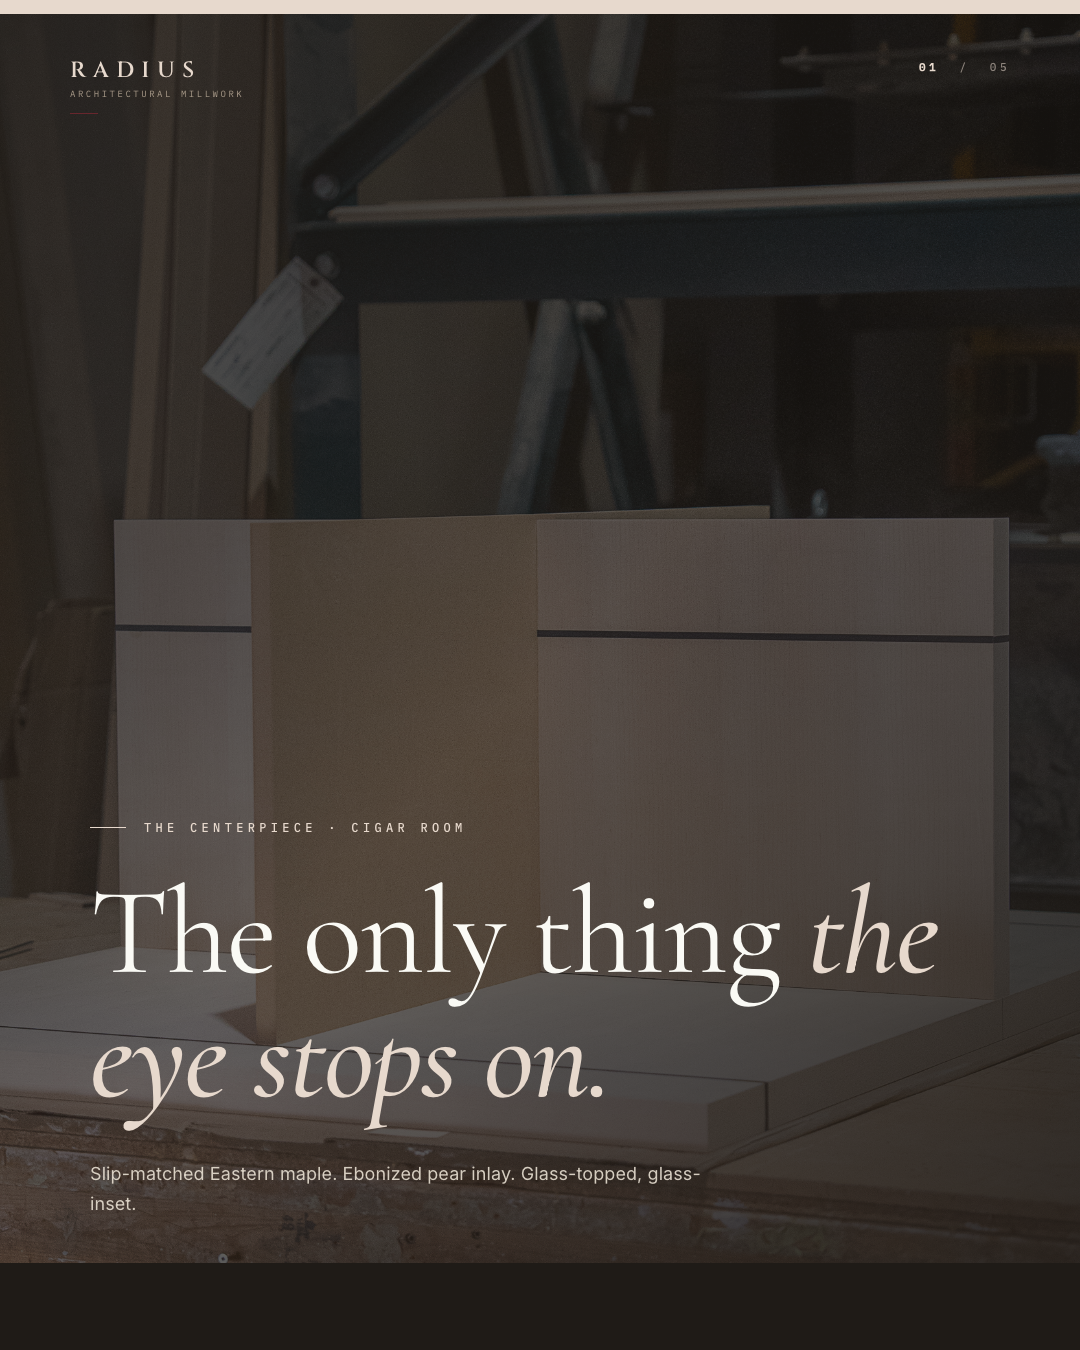
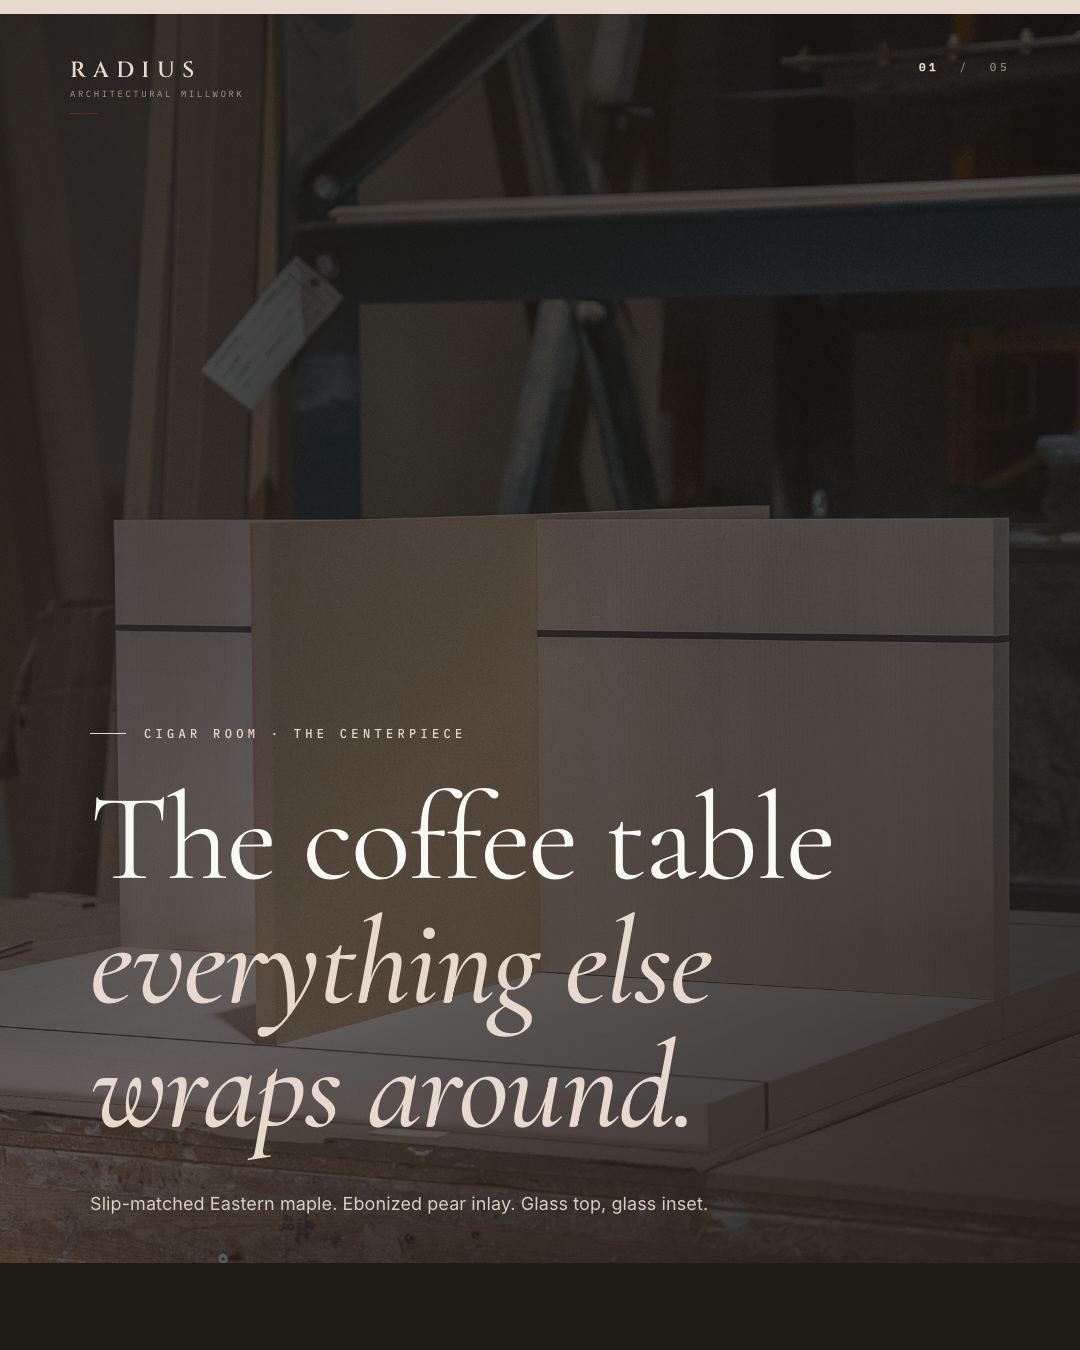
Post 4 cover rewrite + delete Post 6 (service differentiator)
POST 4 COVER:
'The only thing the eye stops on' → 'The coffee table everything
else wraps around.' Fits a cigar room with maple-panelled walls,
TV, and couches — the table is what the room is built around,
not the only thing visible. Caption ending also updated to
'Centerpiece of the cigar room' (Rick's actual audio phrasing).

POST 6 DELETED:
The 'Service is the differentiator' LinkedIn long-form (Fri May 22).

All posts after renumbered. Totals updated:
  Wk1+2: /07 → /06
  Wk3:   /11 → /10
  Top metadata: 11 → 10 posts
  Week 2 days: Mon · Wed · Fri · Sat → Mon · Wed · Sat

Changed region(s): [[0.0611, 0.56, 0.8861, 0.9022]]

diff --git a/radiuswood/posts/index.html b/radiuswood/posts/index.html
@@ -130,7 +130,7 @@
   <div class="meta-row">
     <div class="meta-item"><strong>Source Shoot</strong>May 5, 2026</div>
     <div class="meta-item"><strong>Edited Frames</strong>55 delivered</div>
-    <div class="meta-item"><strong>Posts</strong>11 (full month · founder-reset removed)</div>
+    <div class="meta-item"><strong>Posts</strong>10 (full month · founder-reset + service-diff removed)</div>
     <div class="meta-item"><strong>Designed Slides</strong>54 (4:5 carousels) + 10 stories (9:16)</div>
     <div class="meta-item"><strong>Plan Drawings</strong>5 in feed (Posts 1, 2, 9, 12)</div>
     <div class="meta-item"><strong>Stories</strong>10 vertical (1080×1920)</div>
@@ -155,7 +155,7 @@
   <!-- POST 1 -->
   <article class="post">
     <div class="post-head">
-      <span class="post-num">Post 01 / 07</span>
+      <span class="post-num">Post 01 / 06</span>
       <span class="post-when">Mon · <em>May 11</em></span>
     </div>
     <div class="post-meta">
@@ -197,7 +197,7 @@ Photography @mattanthonyphoto</div>
   <!-- POST 2 -->
   <article class="post">
     <div class="post-head">
-      <span class="post-num">Post 02 / 07</span>
+      <span class="post-num">Post 02 / 06</span>
       <span class="post-when">Wed · <em>May 13</em></span>
     </div>
     <div class="post-meta">
@@ -244,7 +244,7 @@ Photography @mattanthonyphoto</div>
   <!-- POST 3 (was POST 4 before deletion of founder reset) -->
   <article class="post">
     <div class="post-head">
-      <span class="post-num">Post 03 / 07</span>
+      <span class="post-num">Post 03 / 06</span>
       <span class="post-when">Sat · <em>May 17</em></span>
     </div>
     <div class="post-meta">
@@ -252,7 +252,7 @@ Photography @mattanthonyphoto</div>
       <span class="badge type">Carousel · 5 slides</span>
       <span class="badge pillar">The Craft</span>
     </div>
-    <h3>The only thing <em>the eye stops on.</em></h3>
+    <h3>The coffee table <em>everything else wraps around.</em></h3>
 
     <div class="carousel-wrap">
       <div class="carousel-label">Carousel sequence — the cigar-room coffee table, from Rick's audio interview</div>
@@ -274,7 +274,7 @@ Slip-matched Eastern maple. Ebonized inlay running through the panel face — pe
 
 Those spacers you see in the mock-up get replaced with glass. Back-cut to the shape, sits down into the field, glass top over the whole thing. Five hundred square feet of slip-matched maple panelling wrapping the room around it.
 
-This table is the only thing the eye stops on.
+Centerpiece of the cigar room.
 
 Rick Wilson, Owner + Master Joiner. Photography @mattanthonyphoto</div>
         <div class="voice-check"><strong>Source:</strong> Rick's May 5 audio interview, verbatim on ebony ethics + pear-wood substitute + the room being 500 sq ft + the table as centerpiece. Replaces the prior "forty feet / wonky reveal" abstraction that wasn't from Rick.</div>
@@ -291,7 +291,7 @@ Rick Wilson, Owner + Master Joiner. Photography @mattanthonyphoto</div>
 <!-- WEEK 2 -->
 <section class="week">
   <div class="week-label">Week <em>Two</em></div>
-  <div class="week-sub">May 18–24 · Mon · Wed · Fri · Sat</div>
+  <div class="week-sub">May 18–24 · Mon · Wed · Sat (service-differentiator removed from Fri)</div>
 </section>
 
 <section class="posts">
@@ -299,7 +299,7 @@ Rick Wilson, Owner + Master Joiner. Photography @mattanthonyphoto</div>
   <!-- POST 5 -->
   <article class="post">
     <div class="post-head">
-      <span class="post-num">Post 04 / 07</span>
+      <span class="post-num">Post 04 / 06</span>
       <span class="post-when">Mon · <em>May 18</em></span>
     </div>
     <div class="post-meta">
@@ -344,7 +344,7 @@ Photography @mattanthonyphoto</div>
   <!-- POST 6 -->
   <article class="post">
     <div class="post-head">
-      <span class="post-num">Post 05 / 07</span>
+      <span class="post-num">Post 05 / 06</span>
       <span class="post-when">Wed · <em>May 20</em></span>
     </div>
     <div class="post-meta">
@@ -386,52 +386,12 @@ Photography @mattanthonyphoto</div>
     </div>
   </article>
 
-  <!-- POST 7 -->
-  <article class="post">
-    <div class="post-head">
-      <span class="post-num">Post 06 / 07</span>
-      <span class="post-when">Fri · <em>May 22</em></span>
-    </div>
-    <div class="post-meta">
-      <span class="badge platform">LinkedIn</span>
-      <span class="badge type">Long-form · 2 photos</span>
-      <span class="badge pillar">The Craft</span>
-    </div>
-    <h3>Service is <em>the differentiator.</em></h3>
-
-    <div class="carousel-wrap">
-      <div class="carousel-label">Photos</div>
-      <div class="carousel">
-        <div class="slide-wrap horizontal"><span class="slide-num">01</span><img src="photos/process/ogr-wardrobe-carcass-pre-fit.jpg" alt="7271"></div>
-        <div class="slide-wrap"><span class="slide-num">02</span><img src="photos/people/sydney-at-bench-vertical.jpg" alt="7491"></div>
-      </div>
-    </div>
-
-    <div class="post-grid">
-      <div>
-        <div class="caption-label">Caption (Studio "we") — v3.4 architect+GC rebalance</div>
-        <div class="caption">Any shop in the trade can put out a quality product. What separates one from another is the partnership.
-
-The architect we want to draw for is the one who hands us a six-page finish schedule and trusts us to call back only the questions that actually matter. The contractor we want to install for is the one who doesn't want to babysit the millwork package — wants to hand it off and not think about it again until install day.
-
-Self-reliant. Problem-solving. On schedule. We're not a leech on the architect's drawing time, and we're not a leech on the contractor's punch list.
-
-Twenty-five years on this end of the trade. Twenty people on the bench in Burnaby. The phone keeps ringing.
-
-Rick Wilson, Owner + Master Joiner. Photography by @mattanthonyphoto</div>
-        <div class="voice-check"><strong>ICP audit v3.4:</strong> Rebalanced to address both primary ICP (architects) and secondary ICP (GCs). Was GC-only.</div>
-      </div>
-      <div>
-        <div class="caption-label">Notes</div>
-        <div class="hashtags">Targets architects + contractors. No voice gates. The mission statement, tightened.</div>
-      </div>
-    </div>
-  </article>
+  <!-- POST 6 (was POST 7, 'Service is the differentiator' removed by Rick) -->
 
   <!-- POST 8 -->
   <article class="post">
     <div class="post-head">
-      <span class="post-num">Post 07 / 07</span>
+      <span class="post-num">Post 06 / 06</span>
       <span class="post-when">Sat · <em>May 24</em></span>
     </div>
     <div class="post-meta">
@@ -483,7 +443,7 @@ Photography @mattanthonyphoto</div>
   <!-- POST 9 -->
   <article class="post">
     <div class="post-head">
-      <span class="post-num">Post 08 / 11 (Wk 3)</span>
+      <span class="post-num">Post 07 / 10 (Wk 3)</span>
       <span class="post-when">Mon · <em>May 25</em></span>
     </div>
     <div class="post-meta">
@@ -535,7 +495,7 @@ Rick Wilson, Owner + Master Joiner. Photography @mattanthonyphoto.</div>
   <!-- POST 10 -->
   <article class="post">
     <div class="post-head">
-      <span class="post-num">Post 09 / 11 (Wk 3)</span>
+      <span class="post-num">Post 08 / 10 (Wk 3)</span>
       <span class="post-when">Wed · <em>May 27</em></span>
     </div>
     <div class="post-meta">
@@ -582,7 +542,7 @@ Photography @mattanthonyphoto</div>
   <!-- POST 11 -->
   <article class="post">
     <div class="post-head">
-      <span class="post-num">Post 10 / 11 (Wk 3)</span>
+      <span class="post-num">Post 09 / 10 (Wk 3)</span>
       <span class="post-when">Fri · <em>May 29</em></span>
     </div>
     <div class="post-meta">
@@ -625,7 +585,7 @@ Rick Wilson, Owner + Master Joiner. Photography @mattanthonyphoto</div>
   <!-- POST 12 -->
   <article class="post">
     <div class="post-head">
-      <span class="post-num">Post 11 / 11 (Wk 3)</span>
+      <span class="post-num">Post 10 / 10 (Wk 3)</span>
       <span class="post-when">Sat · <em>May 31</em></span>
     </div>
     <div class="post-meta">